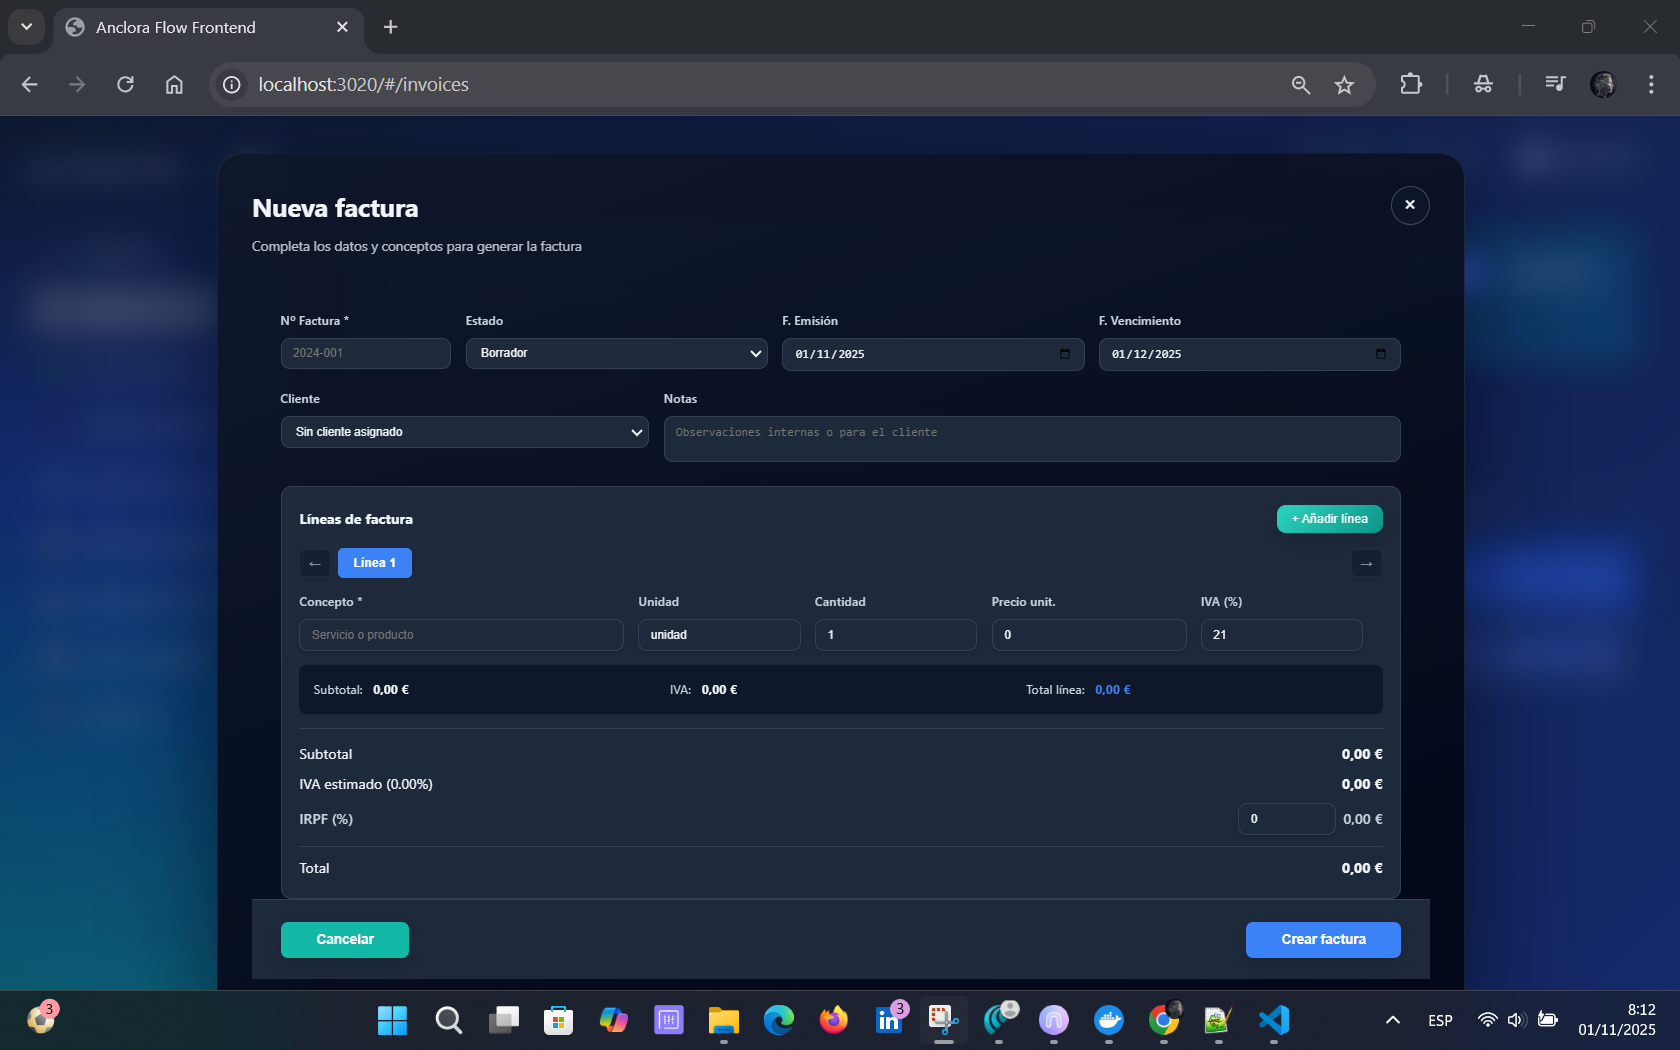
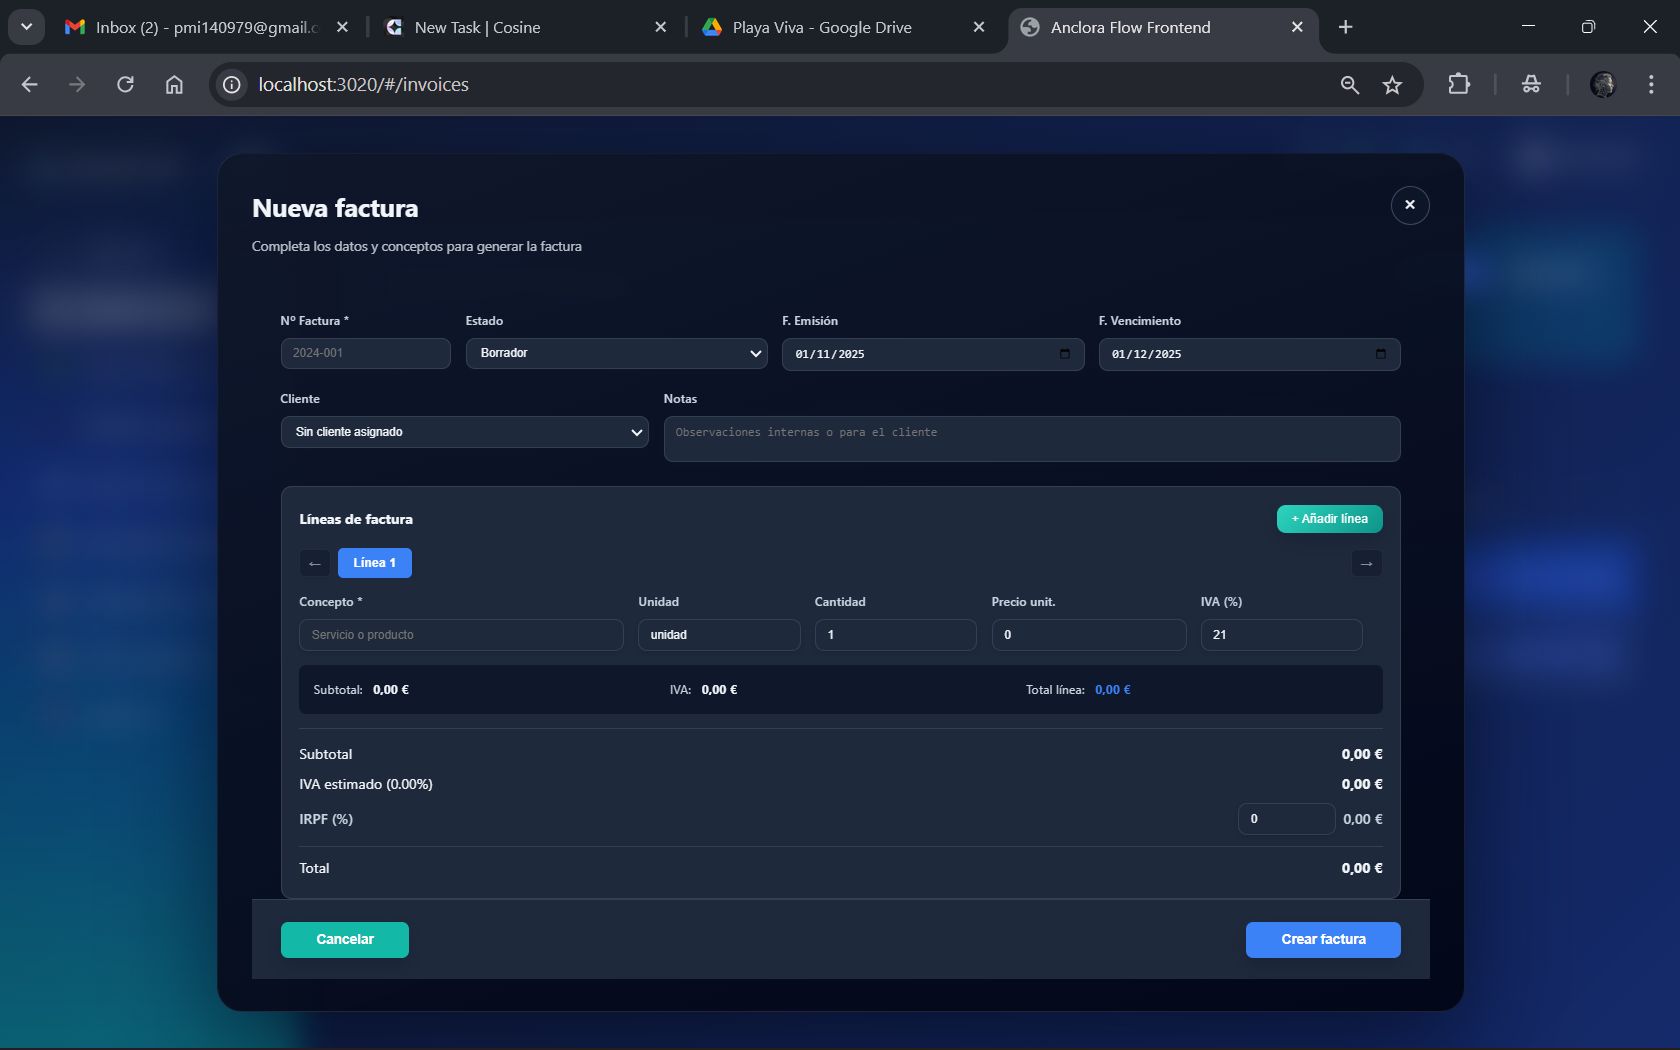
cambios modales factura

diff --git a/frontend/src/pages/invoices.js b/frontend/src/pages/invoices.js
@@ -311,9 +311,9 @@ function buildInvoiceModalHtml(mode, invoice) {
               </dd></div>
             </dl>
           </div>
-            <footer class="modal__footer">
-            <button type="button" class="btn-secondary" style="flex: 1;" data-modal-close>Cerrar</button>
-            <button type="button" class="btn-primary" style="flex: 1;" onclick="closeInvoiceModal(); openInvoiceModal('edit', '${
+          <footer class="modal__footer modal-form__footer">
+            <button type="button" class="btn-secondary" data-modal-close>Cerrar</button>
+            <button type="button" class="btn-primary" onclick="closeInvoiceModal(); openInvoiceModal('edit', '${
               invoice.id
             }')">Editar</button>
           </footer>
@@ -333,8 +333,8 @@ function buildInvoiceModalHtml(mode, invoice) {
           </div>
           <button type="button" class="modal__close" data-modal-close aria-label="Cerrar modal">×</button>
         </header>
-        <div class="modal__body">
-          <form id="invoice-form" data-mode="${mode}" novalidate style="display: flex; flex-direction: column; gap: 1.5rem;">
+        <form id="invoice-form" data-mode="${mode}" novalidate>
+          <div class="modal__body" style="display: flex; flex-direction: column; gap: 1.5rem;">
             <div style="display: grid; gap: 1rem; grid-template-columns: repeat(2, minmax(0, 1fr));">
               <div class="form-group">
                 <label for="invoice-number">Número de factura</label>
@@ -433,12 +433,12 @@ function buildInvoiceModalHtml(mode, invoice) {
                 </div>
               </div>
             </div>
-          </form>
-        </div>
-          <footer class="modal__footer">
-          <button type="button" class="btn-secondary" style="flex: 1;" data-modal-close>Cancelar</button>
-          <button type="submit" form="invoice-form" class="btn-primary" style="flex: 1;">${actionLabel}</button>
-        </footer>
+          </div>
+          <footer class="modal__footer modal-form__footer">
+            <button type="button" class="btn-secondary" data-modal-close>Cancelar</button>
+            <button type="submit" class="btn-primary">${actionLabel}</button>
+          </footer>
+        </form>
       </div>
     </div>
   `;
